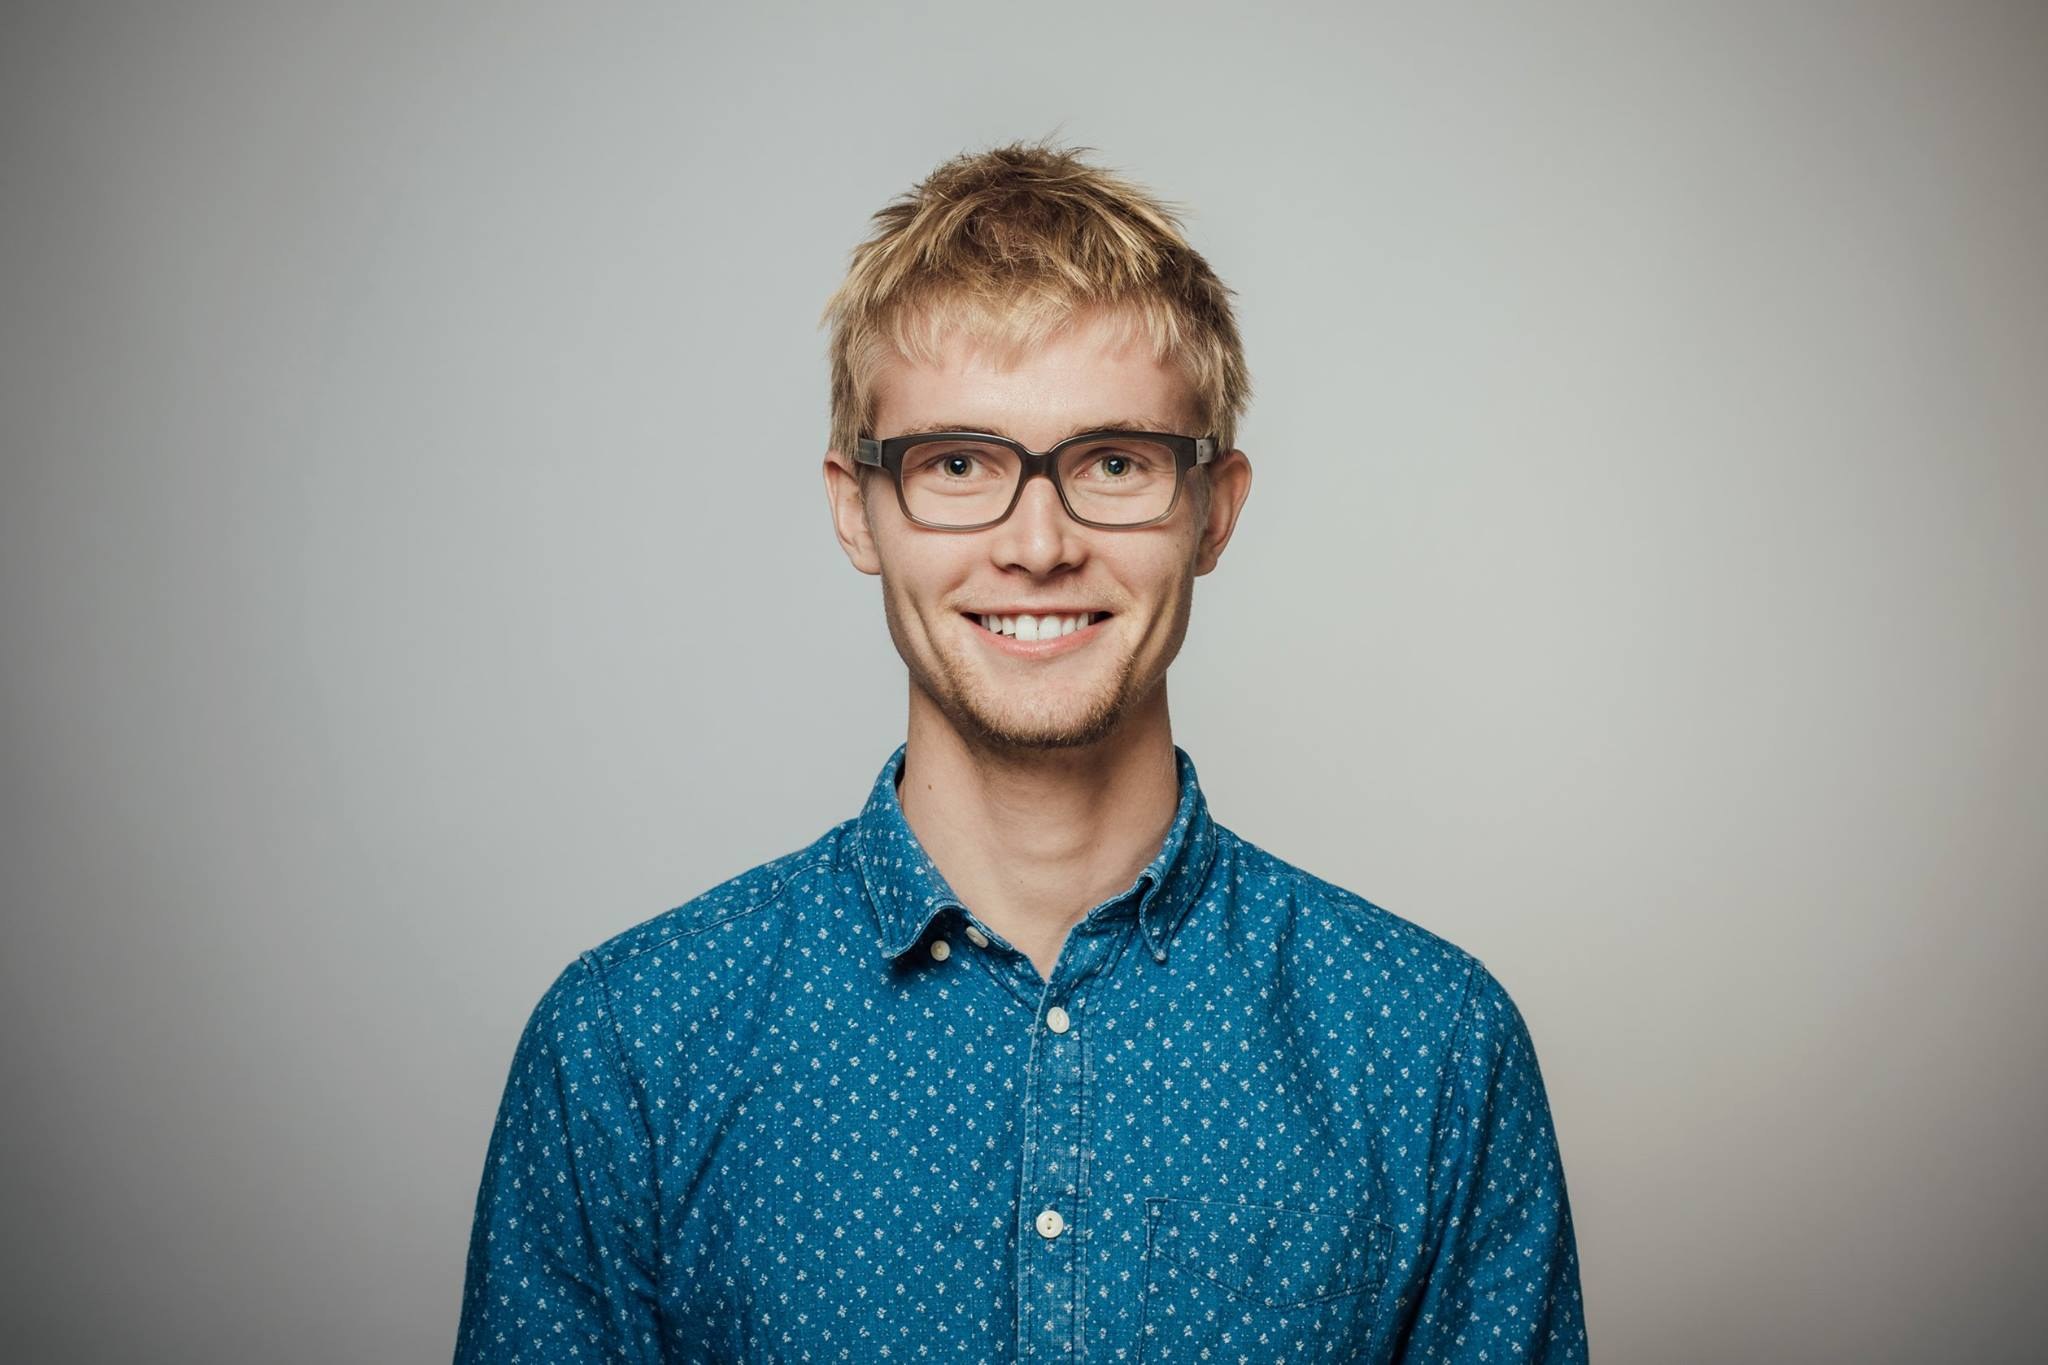
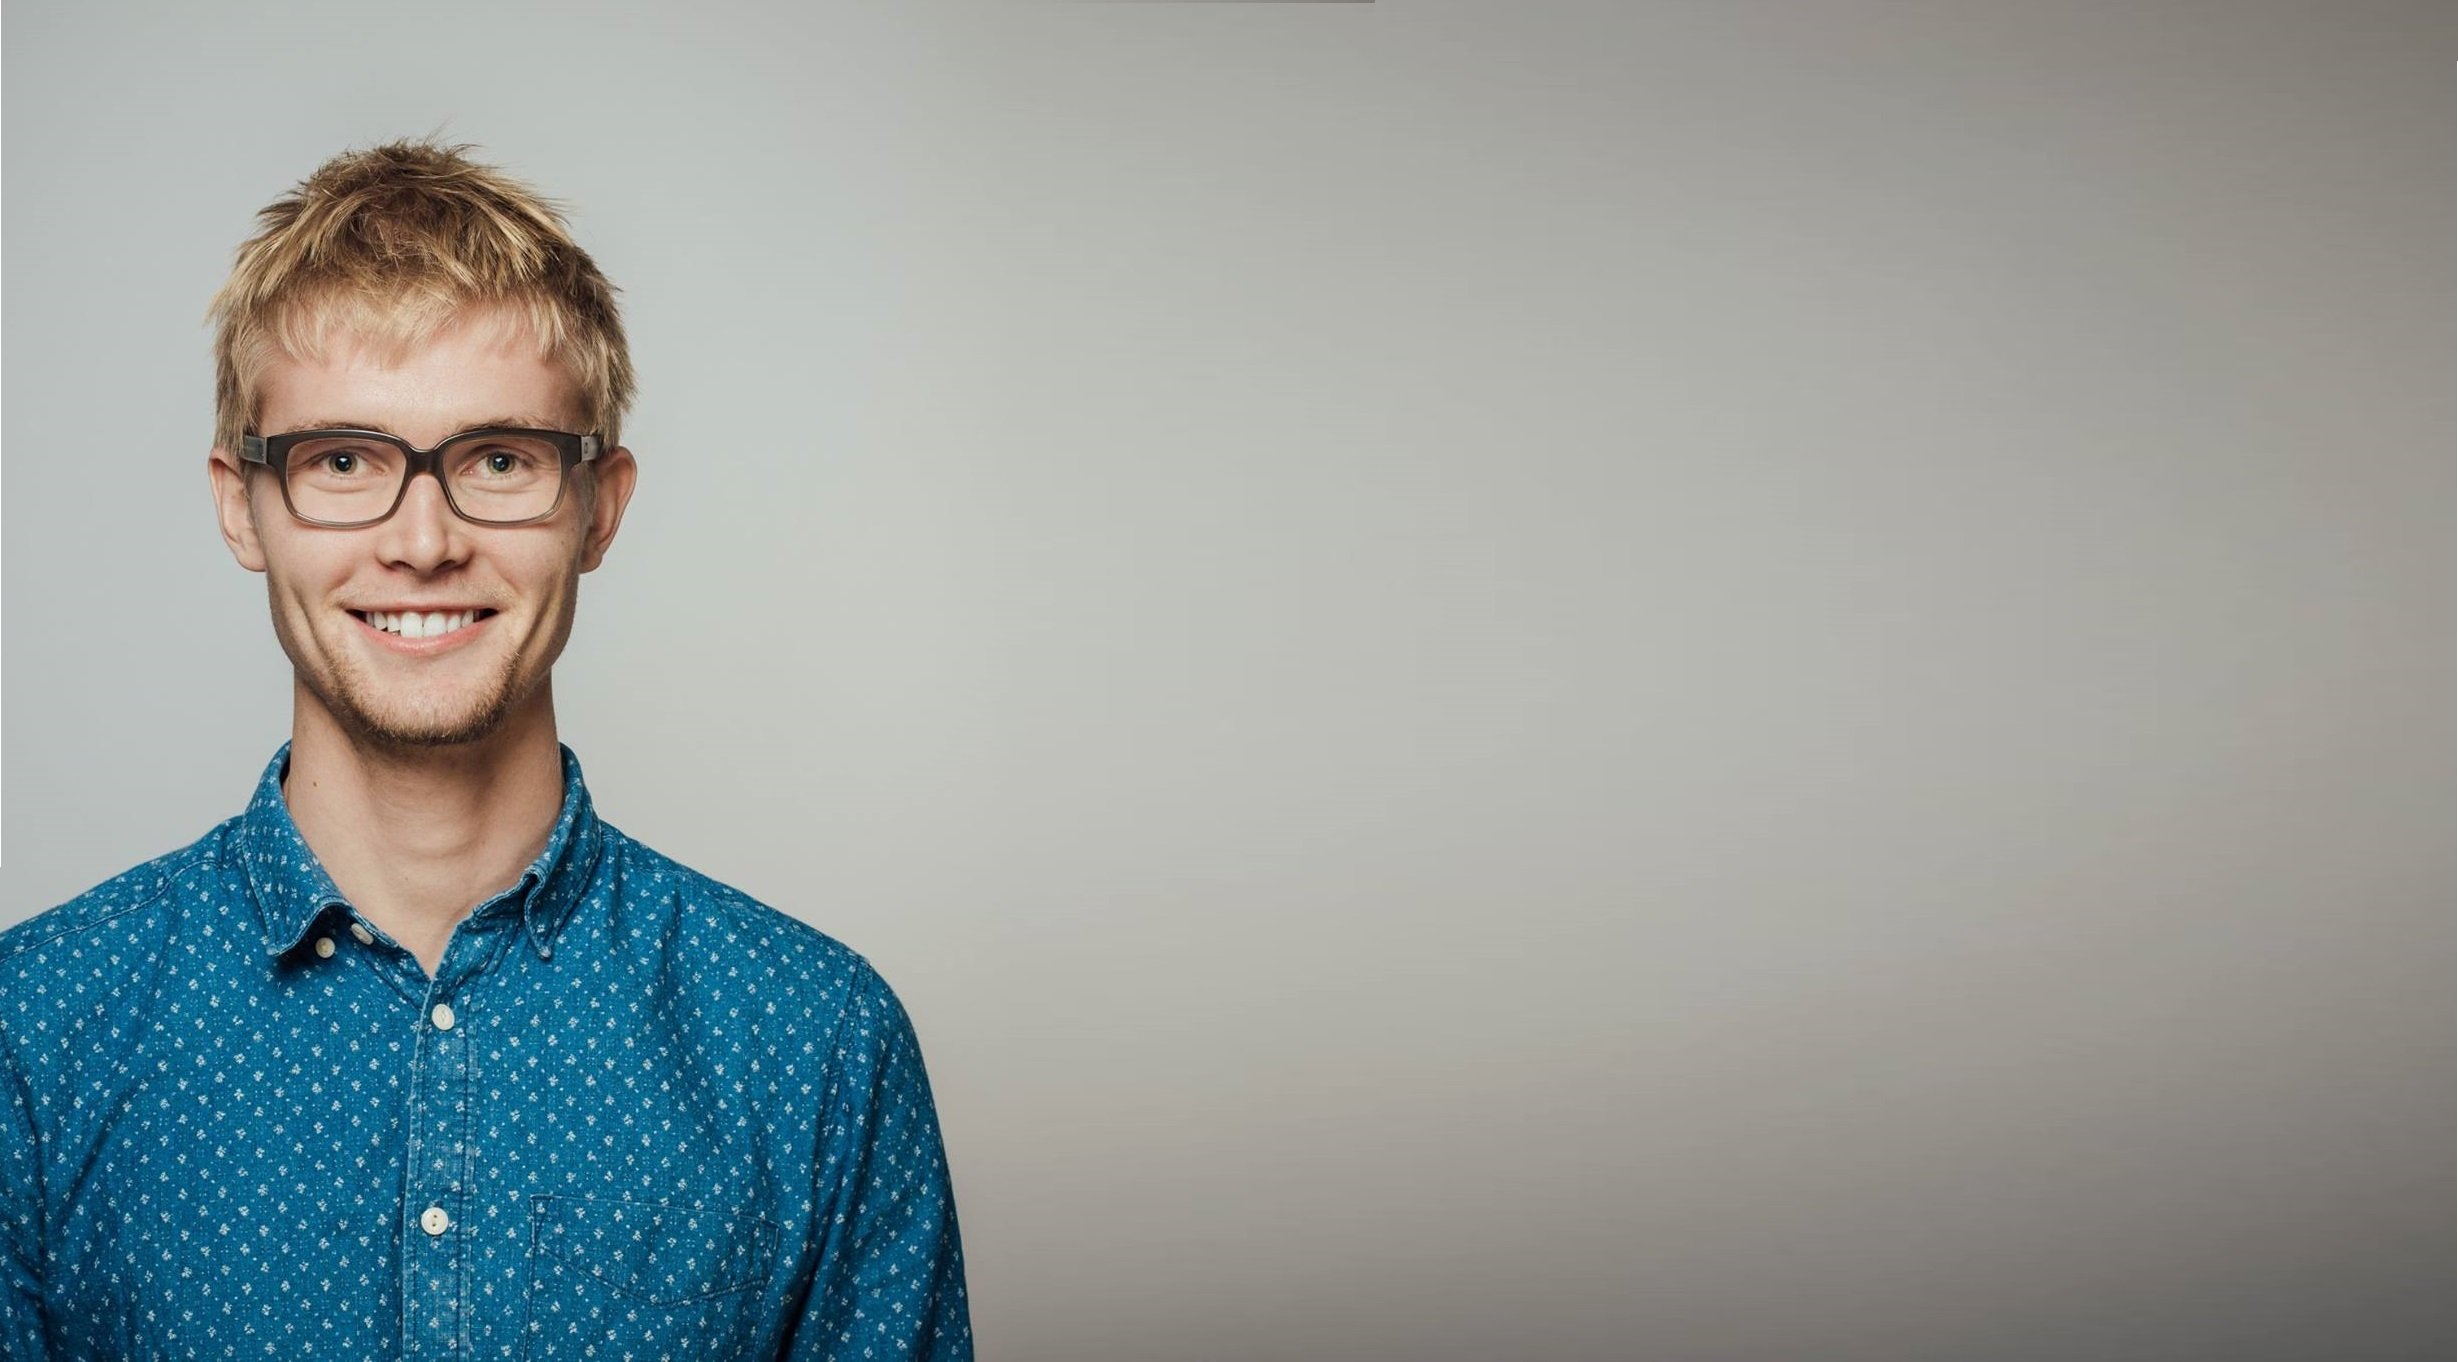
change fond

diff --git a/index.html b/index.html
@@ -169,7 +169,7 @@
 						   <td> <h3> Data visualisation</h3></td>
 					   </tr>
 					   <tr>
-						   <td colspan="2"><p>I love Data, I love charts, graphs, everything that can make me understand complicated things easily.</p></td>
+						   <td colspan="2"><p>I love Data. I love charts, graphs, everything that can make me understand complicated things easily.</p></td>
 					   </tr>
 					</table>
 					</div> 
@@ -183,7 +183,7 @@
 						   <td> <h3> Full stack beginner dev</h3></td>
 					   </tr>
 					   <tr>
-						   <td colspan="2"><p>MOOCs, Youtube, online-tutorial and a lot of practice made me capable to use both front-end (HTML5, CSS3, Javascript) and back-end (Analytics, PHP, SQL)</p></td>
+						   <td colspan="2"><p>MOOCs, Youtube, online-tutorial and a lot of practice made me capable to use both front-end (HTML5, CSS3, Javascript) and back-end (Analytics, PHP, SQL) skills.</p></td>
 					   </tr>
 					</table>
 					</div>	
@@ -207,7 +207,7 @@
 						   <td> <h3> Public speaking</h3></td>
 					   </tr>
 					   <tr>
-						   <td colspan="2"><p>I am a 24yold ingeneer designer living in Nantes. I used to travel a lot all around the world, from Peru to Sweden. </p></td>
+						   <td colspan="2"><p>weden. </p></td>
 					   </tr>
 					</table>
 					</div>
